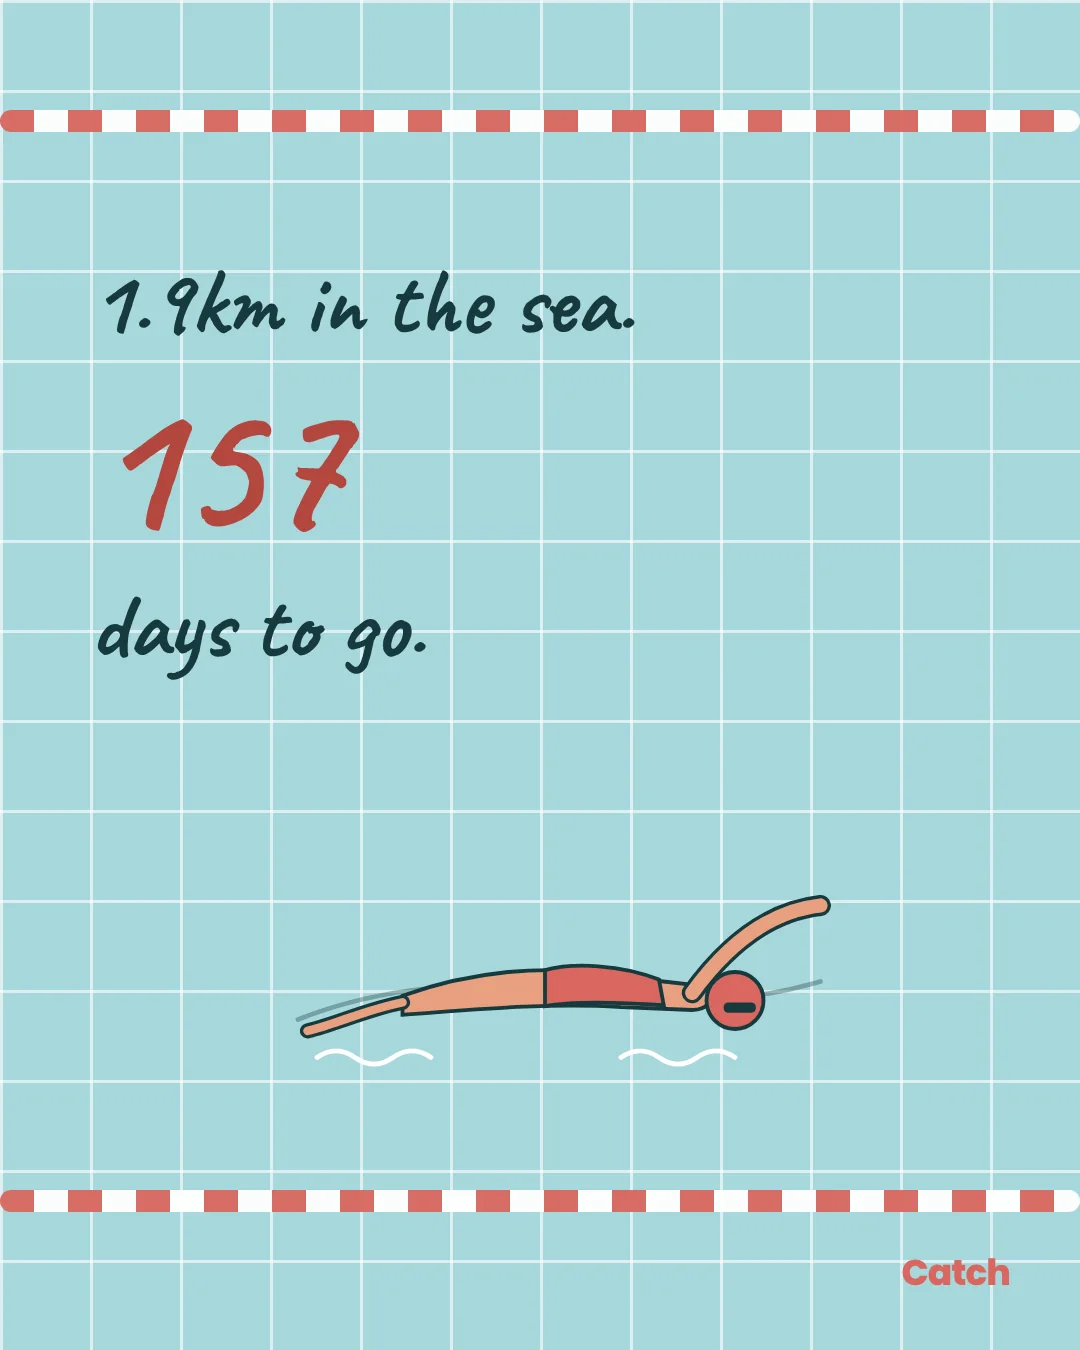
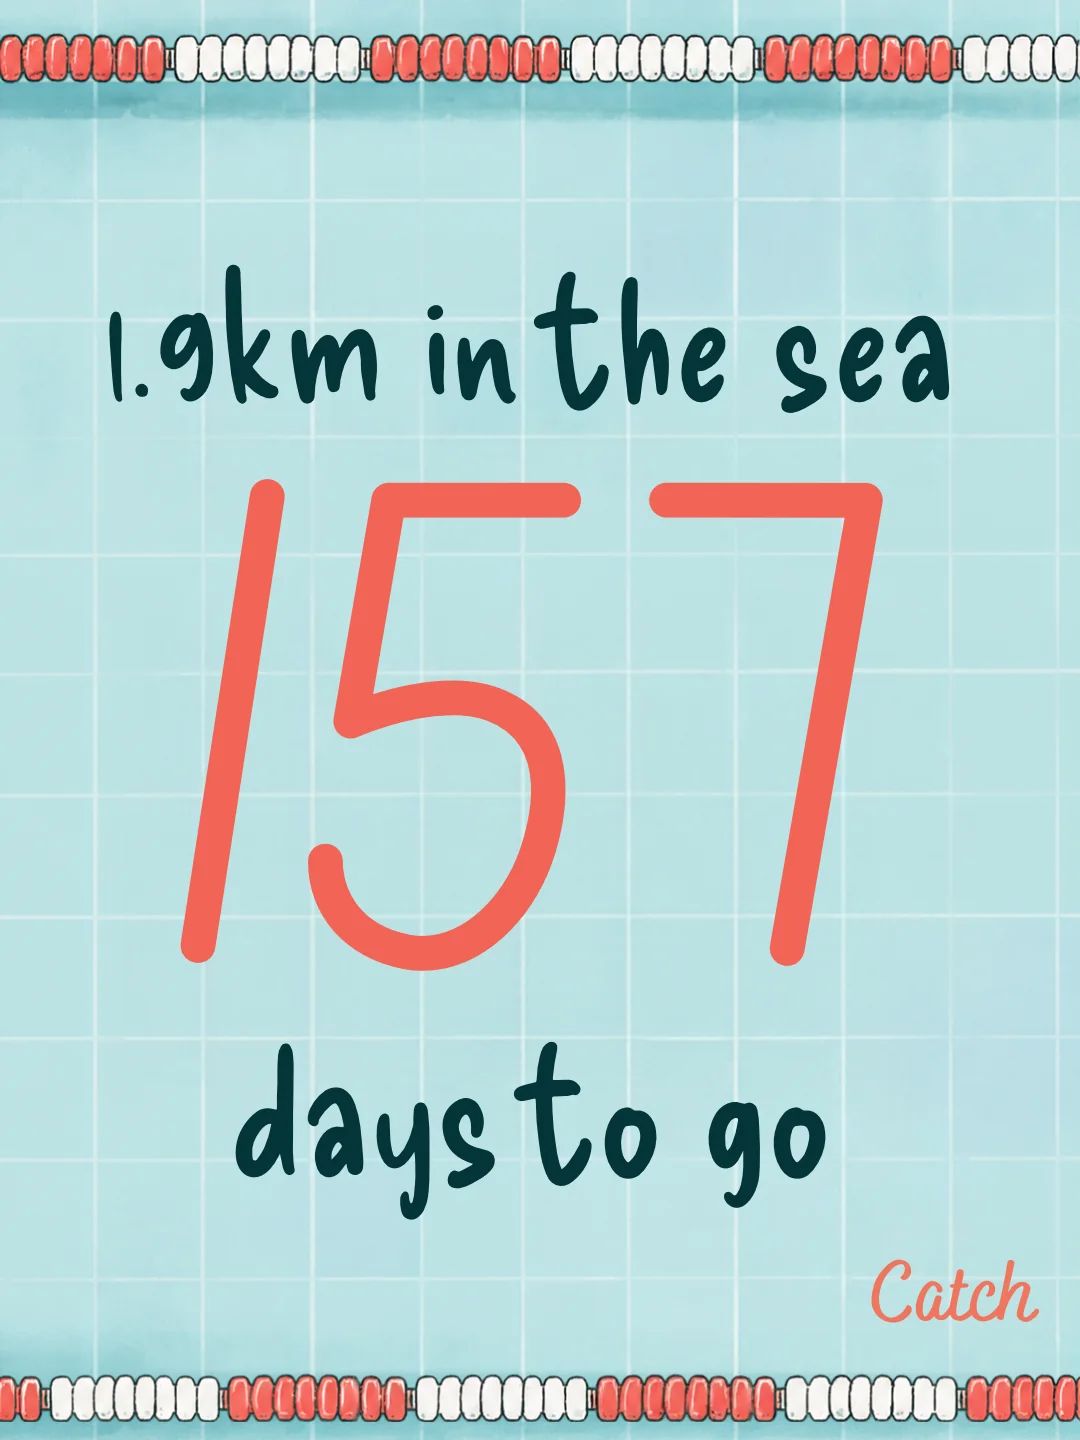
Catch page: swap in Emiliya's Canva story carousel; show images at native ratio
Claude-Session: https://claude.ai/code/session_01CG9yRkzMTT6RdgRfDNJLbT

diff --git a/catch.html b/catch.html
@@ -18,7 +18,7 @@
 .tag{font-size:12px;font-weight:600;letter-spacing:.12em;text-transform:uppercase;color:var(--slate)}
 .gallery{display:flex;gap:14px;overflow-x:auto;scroll-snap-type:x mandatory;padding-bottom:12px;-webkit-overflow-scrolling:touch}
 .gallery a{flex:0 0 min(78vw,340px);scroll-snap-align:start;border-radius:14px;overflow:hidden;border:1px solid var(--line);background:#fff}
-.gallery img{width:100%;aspect-ratio:4/5;object-fit:cover}
+.gallery img{width:100%;height:auto}
 .hint{font-size:13px;color:var(--mist)}
 .results{display:grid;grid-template-columns:repeat(3,1fr);gap:16px}
 .results div{background:#fff;border:1px solid var(--line);border-radius:16px;padding:22px}
